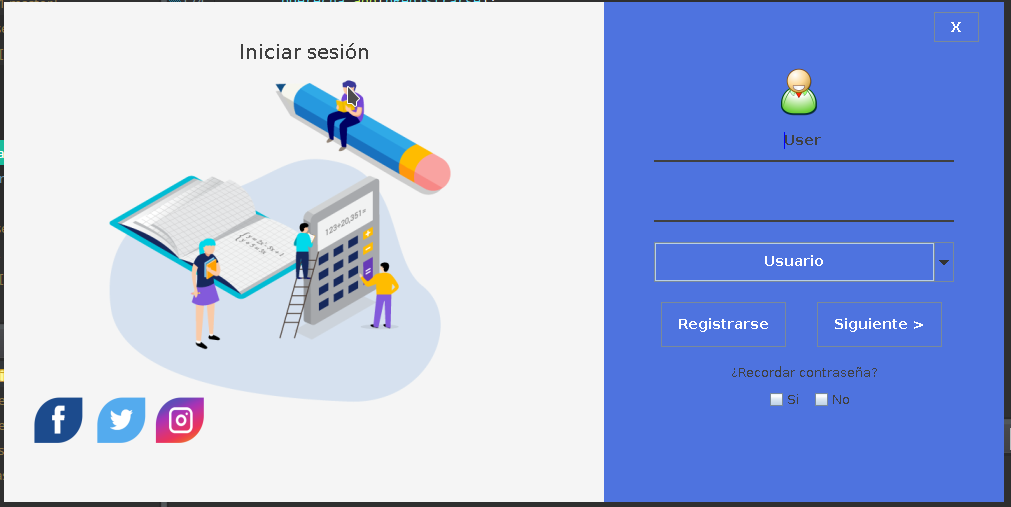
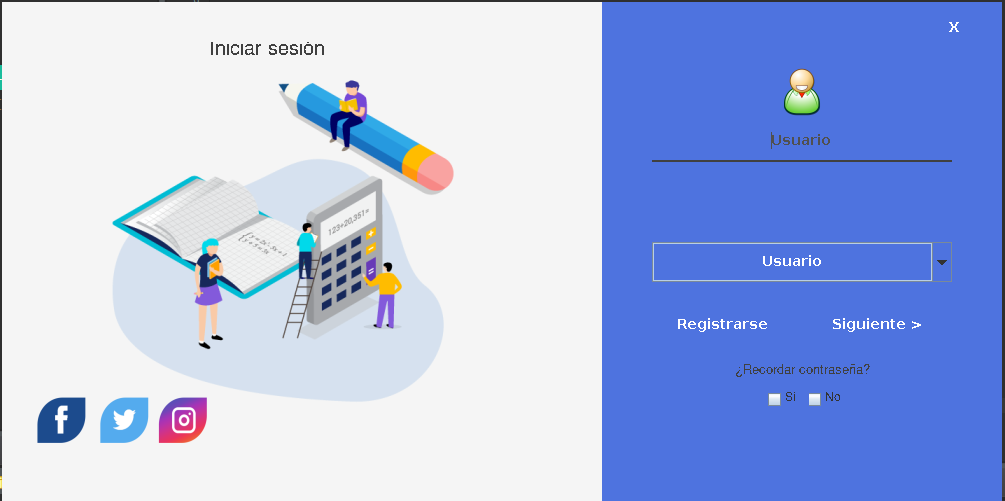
Readme

diff --git a/README.md b/README.md
@@ -1,2 +1,13 @@
-# Interfaz_Clase-5
-Interfaz gráfica con Java 5
+# Interfaz_Clase45
+## Diego Alejandro Parra Daza 20141020063
+Interfaz gráfica con java
+
+Ventana login
+
+![Alt text](clase5/recursos/loguinFinal.png?raw=true "calse5")
+
+
+Ventana principal - Esquema
+
+![Alt text](clase5/recursos/ventanap.png?raw=true "clases")
+
